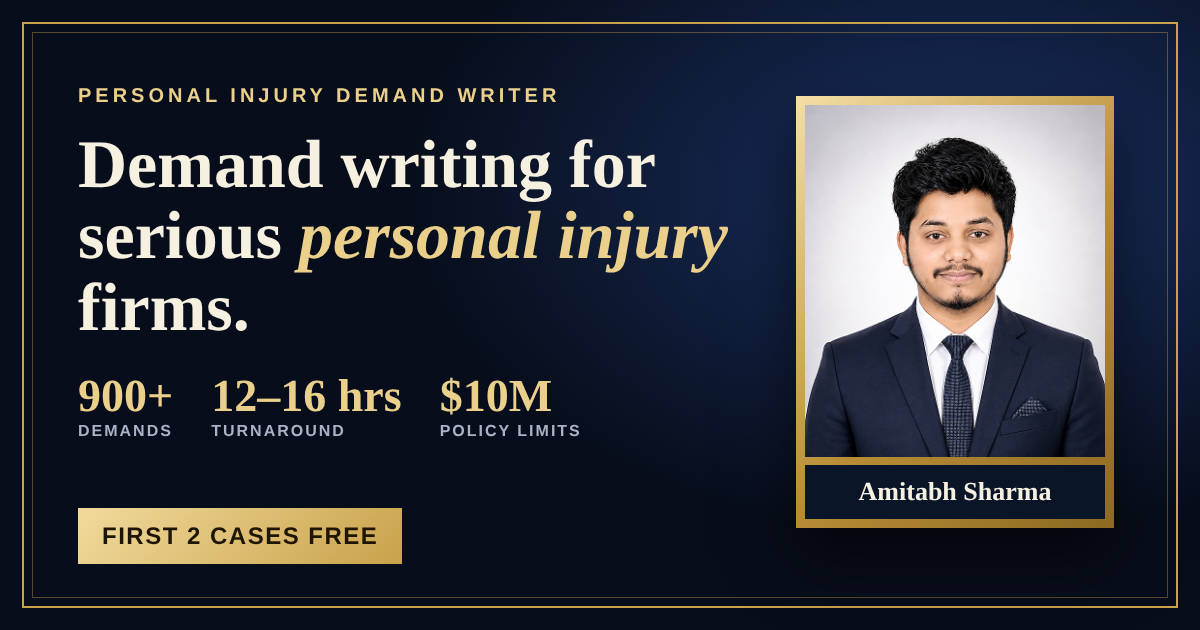
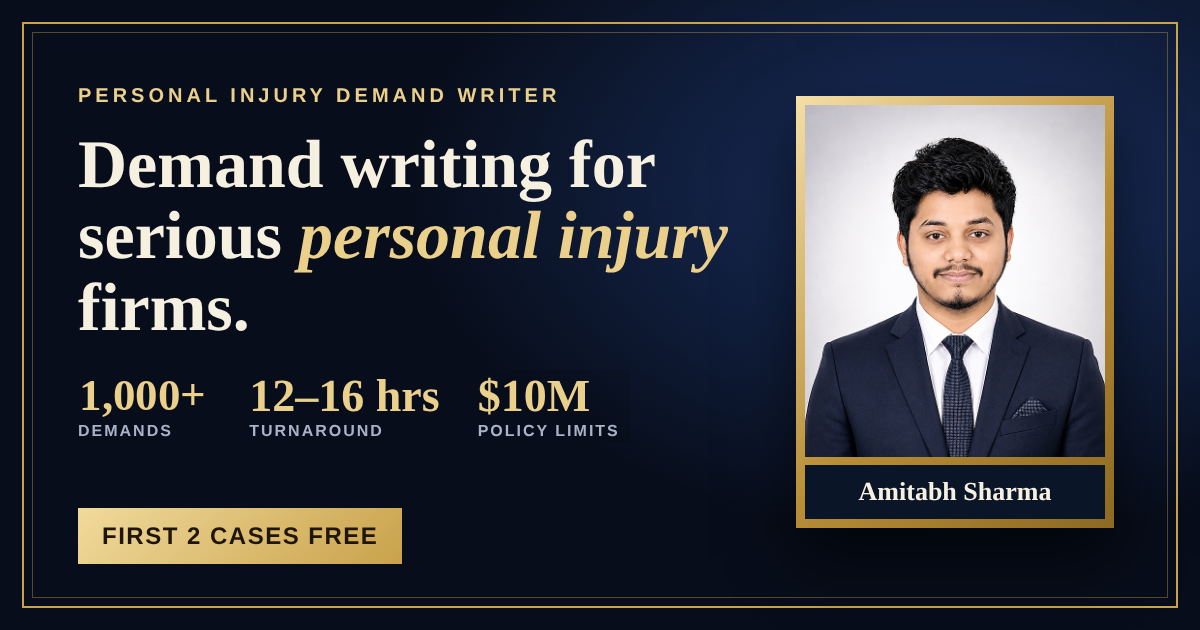
Update hero counter and social preview image to 1,000+ demands
Claude-Session: https://claude.ai/code/session_01EX3YyLo79eiWejurrLxBTU

Changed region(s): [[0.0617, 0.6032, 0.5242, 0.6937]]

diff --git a/index.html b/index.html
@@ -352,7 +352,7 @@ footer{padding:30px 0;border-top:1px solid var(--line);color:#8D97AD;font-size:1
 <p class="rot">I draft <b id="rot">rear-end collision demands in Washington</b></p>
 <p class="heroLead">Attorney-ready demand packages, medical analysis, liability research and damages presentation for U.S. personal injury practices — with experience across California, Washington, Oregon, Idaho, Texas, Georgia, Alaska and Utah.</p>
 <div class="buttons"><a class="btn" href="#contact" data-trial>Try 2 cases free</a><a class="btn ghost" href="#book">Book a call</a><a class="btn ghost" href="#portfolio">View writing samples</a><a class="btn ghost" href="#pricing">View pricing</a></div>
-<div class="stats"><div><b><span data-count="900">900</span>+</b><span>demand packages</span></div><div><b>60–<span data-count="100">100</span>+</b><span>packages a month</span></div><div><b>$25K–$<span data-count="10">10</span>M</b><span>policy limits handled</span></div></div>
+<div class="stats"><div><b><span data-count="1000">1,000</span>+</b><span>demand packages</span></div><div><b>60–<span data-count="100">100</span>+</b><span>packages a month</span></div><div><b>$25K–$<span data-count="10">10</span>M</b><span>policy limits handled</span></div></div>
 <p class="turn"><b style="color:var(--gold2)">New firms: your first 2 cases are free.</b> Typical turnaround of <b>12–16 hours</b> per demand. On bulk orders, <b>6–10 demands a day</b>. Rates open to negotiation.</p>
 </div>
 <div class="scene" id="scene">
@@ -824,7 +824,7 @@ var rot=document.getElementById("rot"),phr=["rear-end collision demands in Washi
 if(!REDUCE)setInterval(function(){ri=(ri+1)%phr.length;rot.textContent=phr[ri];rot.classList.remove("sw");void rot.offsetWidth;rot.classList.add("sw")},2600);
 /* count-up */
 document.querySelectorAll("[data-count]").forEach(function(el){var n=+el.dataset.count;if(REDUCE)return;el.textContent="0";var st=null;
- setTimeout(function(){requestAnimationFrame(function f(ts){st=st||ts;var k=Math.min((ts-st)/1800,1);el.textContent=Math.round(n*(1-Math.pow(1-k,3)));if(k<1)requestAnimationFrame(f)})},500)});
+ setTimeout(function(){requestAnimationFrame(function f(ts){st=st||ts;var k=Math.min((ts-st)/1800,1);el.textContent=Math.round(n*(1-Math.pow(1-k,3))).toLocaleString("en-US");if(k<1)requestAnimationFrame(f)})},500)});
 /* 3D entrance */
 var rv=document.querySelectorAll(".rv");
 if(REDUCE||!("IntersectionObserver" in window)){rv.forEach(function(e){e.classList.add("in")})}
